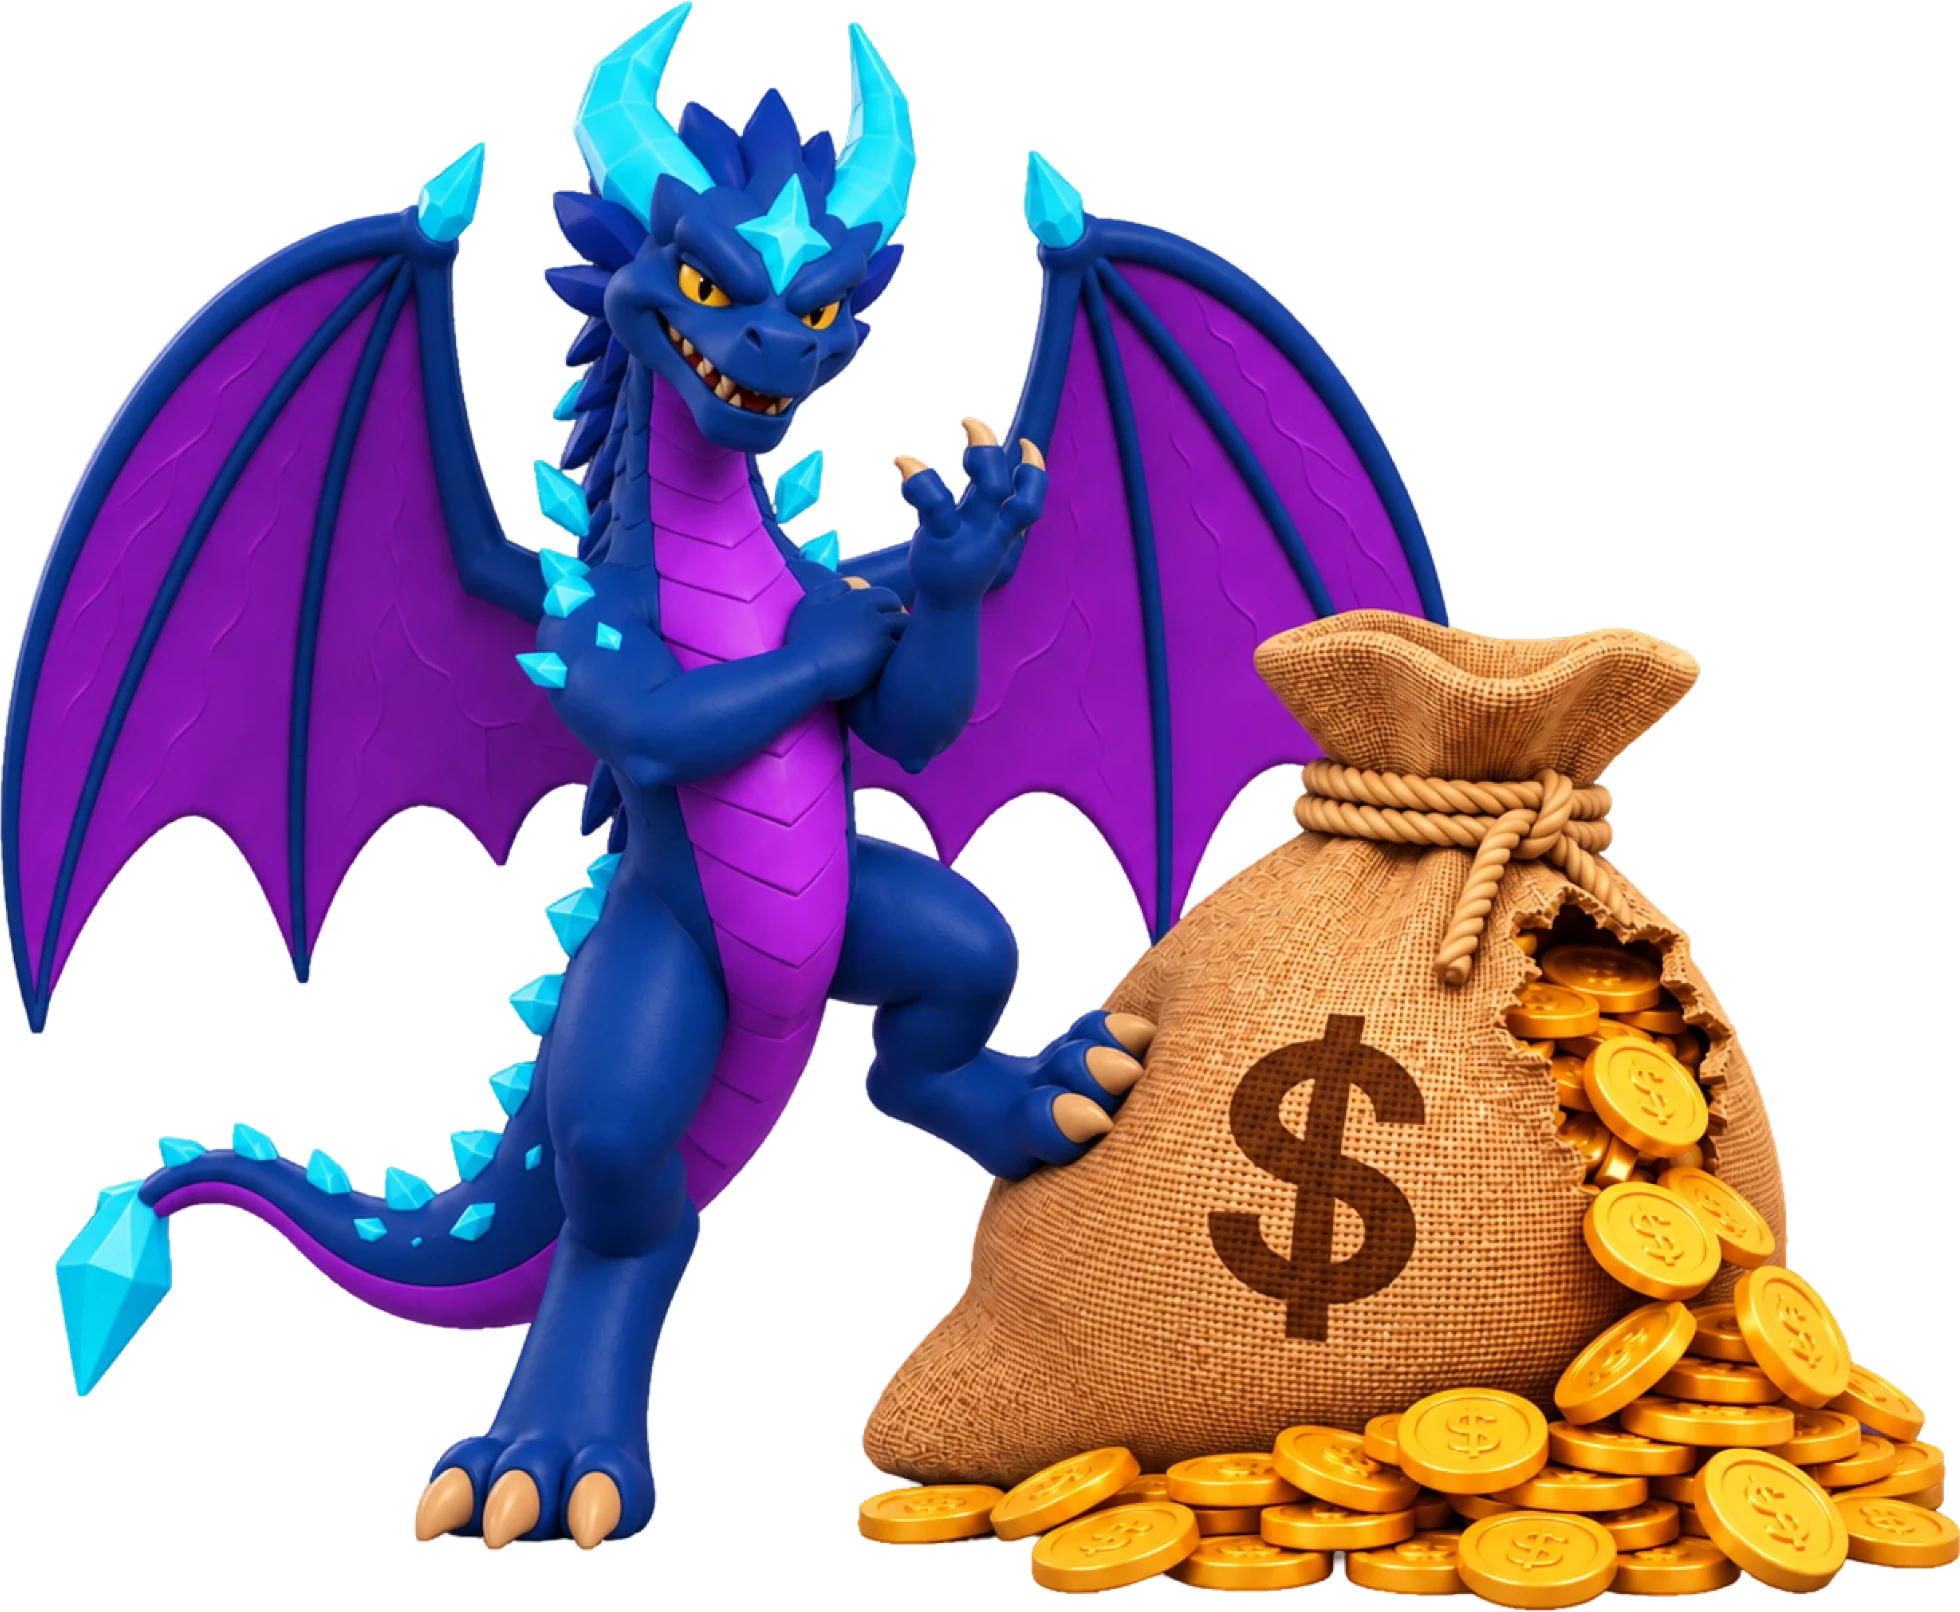
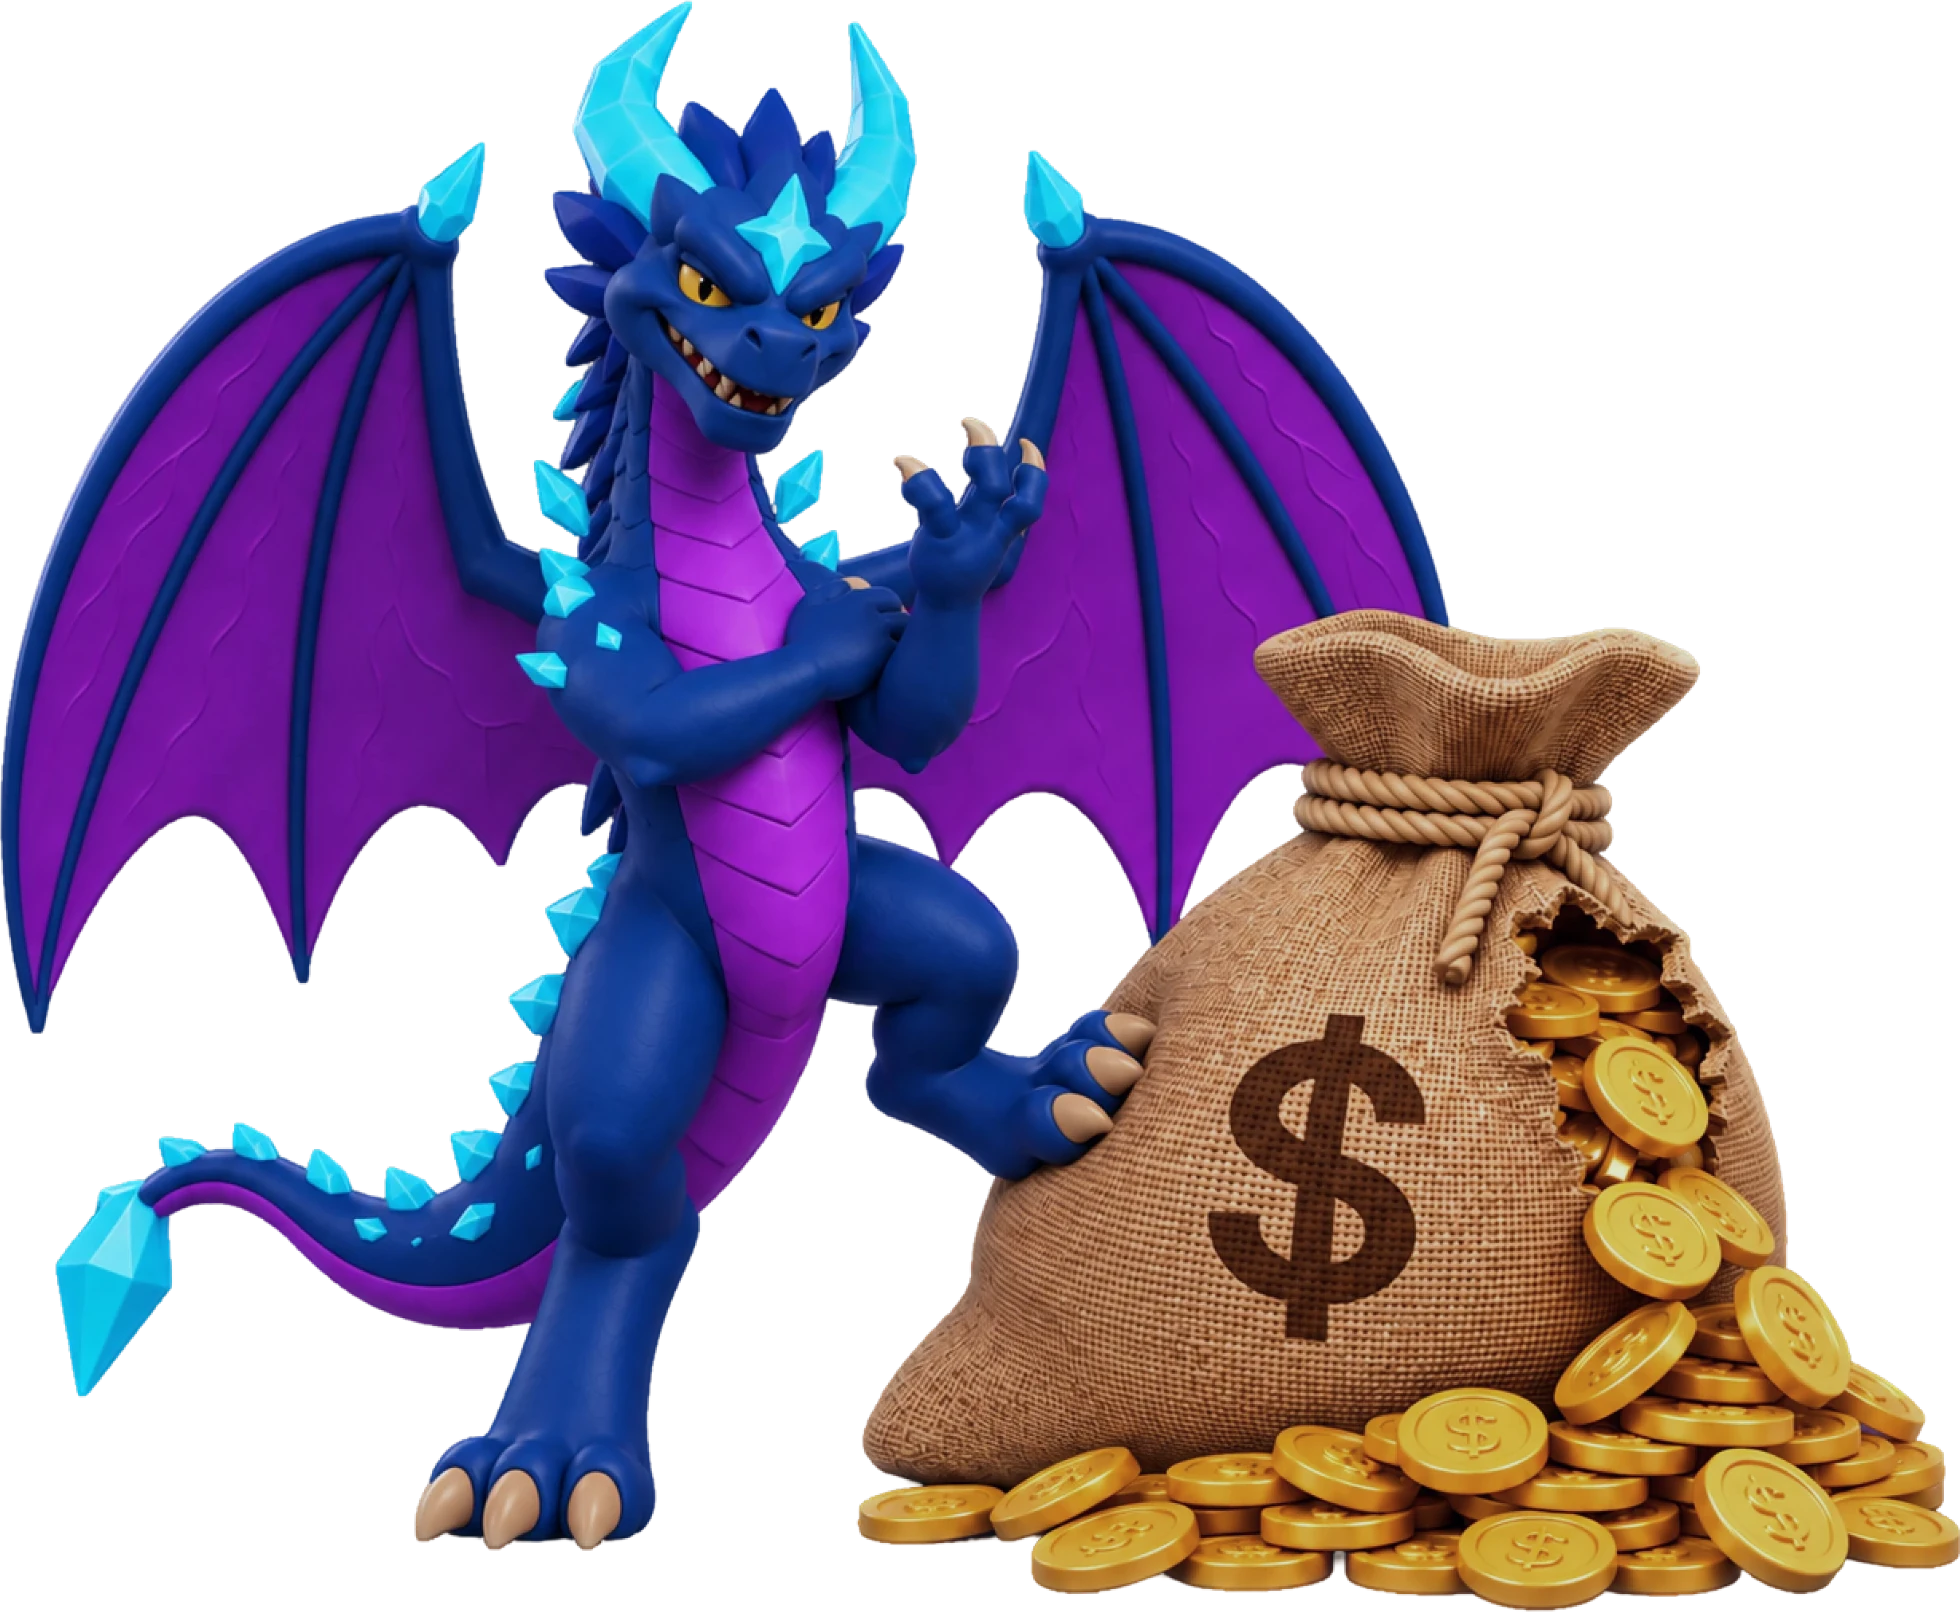
Estrella de reseñas estilo Google, tickets volando también en Reviews y ajuste suave de Siderax con el dinero

diff --git a/index.html b/index.html
@@ -1112,8 +1112,8 @@ body.idle .toolbar { opacity: 0; pointer-events: none; }
   // ---------- Tickets que salen volando de la ruleta ----------
   // Salen del borde en la dirección del giro (por la inercia); entre más rápido gira, más salen.
   const tixCanvas = $("spinTix"), tctx = tixCanvas.getContext("2d");
-  // el GaliTicket de la marca; en la de Reviews salen estrellas
-  const ticketIcon = document.querySelector(POR_REVIEWS ? ".stat.rv .stat-icon" : ".stat.tk .stat-icon");
+  // el GaliTicket de la marca (también en la de Reviews)
+  const ticketIcon = document.querySelector(".stat.tk .stat-icon");
   let flying = [], tixRaf = 0, tixLast = 0, emitCarry = 0;
   function emitTickets(omega, dt) {
     if (reduced || omega < 0.6) return;

diff --git a/build/integrar-escena.py b/build/integrar-escena.py
@@ -1,33 +1,49 @@
 """Integra una imagen (personaje con fondo transparente) en la escena nocturna del planeta de Siderax:
 menos saturación, tonos medios más oscuros, tinte frío (luz azul del planeta) y un poco de luz cian de
-los cristales en los bordes. Así se hizo assets/siderax-dinero.webp.
+los cristales en los bordes. Se mezcla con la imagen original según la fuerza, y los tonos cálidos
+(bolsa, monedas) pueden llevar más ajuste que el resto.
 
-Uso: python build/integrar-escena.py <imagen con fondo transparente> <salida.webp> [saturación, 0.62]
-Ejemplo: python build/integrar-escena.py siderax.png assets/siderax-dinero.webp
+Uso: python build/integrar-escena.py <imagen con fondo transparente> <salida.webp> [fuerza] [calidos]
+  fuerza   cuánto ajuste en general, de 0 a 1 (por defecto 1)
+  calidos  ajuste para los tonos cálidos (naranja, marrón, dorado), de 0 a 1 (por defecto = fuerza)
+Así se hizo assets/siderax-dinero.webp:
+  python build/integrar-escena.py siderax.png assets/siderax-dinero.webp 0.25 0.6
 """
 import numpy as np, os, sys
 from PIL import Image, ImageFilter
+
 SRC, OUT = sys.argv[1], sys.argv[2]
-im =Image.open(SRC).convert('RGBA')
+fuerza = float(sys.argv[3]) if len(sys.argv) > 3 else 1.0
+calidos = float(sys.argv[4]) if len(sys.argv) > 4 else fuerza
+
+im = Image.open(SRC).convert('RGBA')
 a = np.asarray(im)[:, :, 3]
 ys, xs = np.nonzero(a > 20)
 im = im.crop((xs.min(), ys.min(), xs.max() + 1, ys.max() + 1))
 arr = np.asarray(im).astype(np.float32) / 255
-rgb, al = arr[:, :, :3], arr[:, :, 3:]
-lum = (rgb * [0.2126, 0.7152, 0.0722]).sum(2, keepdims=True)
-sat = float(sys.argv[3]) if len(sys.argv) > 3 else 0.62
-rgb = lum + (rgb - lum) * sat                       # menos saturación
+orig, al = arr[:, :, :3], arr[:, :, 3:]
+
+# ajuste completo
+lum = (orig * [0.2126, 0.7152, 0.0722]).sum(2, keepdims=True)
+rgb = lum + (orig - lum) * 0.62                     # menos saturación
 rgb = np.power(np.clip(rgb, 0, 1), 1.18) * 0.86     # tonos medios más oscuros
 rgb = rgb * np.array([0.90, 0.95, 1.10])            # tinte frío
 lum2 = (rgb * [0.2126, 0.7152, 0.0722]).sum(2, keepdims=True)
 rgb = rgb + (1 - lum2) * np.array([0.00, 0.012, 0.045])   # sombras con ambiente azul
-# luz cian en el borde: alfa erosionado vs. original = contorno, difuminado hacia dentro
 A = Image.fromarray((al[:, :, 0] * 255).astype(np.uint8))
 inner = np.asarray(A.filter(ImageFilter.MinFilter(9)).filter(ImageFilter.GaussianBlur(6)), np.float32) / 255
 rim = np.clip(al[:, :, 0] - inner, 0, 1)[:, :, None]
 rgb = rgb + rim * np.array([0.10, 0.32, 0.42]) * 0.55
-out = np.concatenate([np.clip(rgb, 0, 1), al], 2)
+
+# cuánto se aplica en cada píxel: más en los tonos cálidos
+r, g, b = orig[:, :, 0], orig[:, :, 1], orig[:, :, 2]
+calido = np.clip((r - b - 0.12) / 0.25, 0, 1) * (r >= g * 0.95)
+calido = np.asarray(Image.fromarray((calido * 255).astype(np.uint8)).filter(ImageFilter.GaussianBlur(4)), np.float32)[:, :, None] / 255
+w = fuerza + (calidos - fuerza) * calido
+out_rgb = orig * (1 - w) + np.clip(rgb, 0, 1) * w
+
+out = np.concatenate([np.clip(out_rgb, 0, 1), al], 2)
 Image.fromarray((out * 255).astype(np.uint8)).save(OUT, 'WEBP', quality=90, method=6)
-px = (out[:, :, :3][out[:, :, 3] > 0.8] * 255)
-l = px.mean(1)
-print('guardado', OUT, im.size, 'luz', round(l.mean(), 1), 'sat', round((px.max(1) - px.min(1)).mean(), 1), os.path.getsize(OUT) // 1024, 'KB')
+px = out[:, :, :3][out[:, :, 3] > 0.8] * 255
+print('guardado', OUT, im.size, 'luz', round(px.mean(1).mean(), 1), 'sat', round((px.max(1) - px.min(1)).mean(), 1),
+      os.path.getsize(OUT) // 1024, 'KB')

diff --git a/README.md b/README.md
@@ -27,7 +27,7 @@ assets/moto.webp            Foto de la moto (fondo transparente)
 assets/siderax-moto.webp    Siderax a la izquierda de la moto, con la mano sobre el asiento de atrás (debajo de la ruleta)
 assets/galilei-symbol.png   Símbolo de Galilei, arriba a la derecha de la pantalla
 assets/gali-dinero.webp      Gali con la bolsa de dinero (anuncio de Auteco y Reviews), imagen del equipo recortada
-assets/siderax-dinero.webp   Siderax con la bolsa de dinero (debajo de la ruleta en Auteco y Reviews), imagen del equipo, sin filtro, recortada (build/integrar-escena.py existe por si hace falta oscurecer otra)
+assets/siderax-dinero.webp   Siderax con la bolsa de dinero (debajo de la ruleta en Auteco y Reviews), imagen del equipo con ajuste suave a la luz nocturna, más en la bolsa (build/integrar-escena.py, fuerza 0.25 y cálidos 0.6)
 assets/fondo-siderax.webp   Fondo: planeta de origen de Siderax, oscuro y suave
 assets/fondo-ganador.webp   Fondo del anuncio del ganador: bóveda de metal oscuro abierta a un valle con arcoíris y un pedestal
 assets/cuarto.webp          Transición: cuarto con la puerta abierta al planeta de Siderax, sin pedestal
@@ -56,7 +56,7 @@ El selector "Lotería activa" (panel, tecla E) cambia entre las loterías de `da
 | `auteco` | Auteco | `data/loteria-auteco.csv` | Siderax con el dinero debajo de la ruleta (`siderax-dinero.webp`) y Gali con el dinero en el anuncio (`gali-dinero.webp`) |
 | `reviews` | Reviews | `data/loteria-reviews.csv` | Siderax con el dinero debajo de la ruleta (`siderax-dinero.webp`) y Gali con el dinero en el anuncio (`gali-dinero.webp`) |
 
-**Reviews es distinta:** no cuenta tickets, juegos ni puntaje. Cada review es una oportunidad (columna `Reviews`, o las que diga `columnas` en `loterias.json`), y solo participan quienes tienen 50 o más (`minimo`). En el anuncio sale una sola cifra, las reviews, con `assets/icono-reviews.svg`, y los tickets que vuelan al girar son estrellas.
+**Reviews es distinta:** no cuenta tickets, juegos ni puntaje. Cada review es una oportunidad (columna `Reviews`, o las que diga `columnas` en `loterias.json`), y solo participan quienes tienen 50 o más (`minimo`). En el anuncio sale una sola cifra, las reviews, con `assets/icono-reviews.svg` (la estrella amarilla de las reseñas de Google, #FBBC04, plana); al girar siguen volando GaliTickets.
 
 - Cada lotería tiene sus propios participantes, título del premio, imágenes, empresas excluidas, sacados e historial. Cambiar de lotería recarga la página y no toca las demás.
 - La de la moto debe seguir siendo la primera y con id `moto`: usa las claves de `localStorage` de siempre (`ruleta6:...`); las demás usan `ruleta6:<id>:...`.
